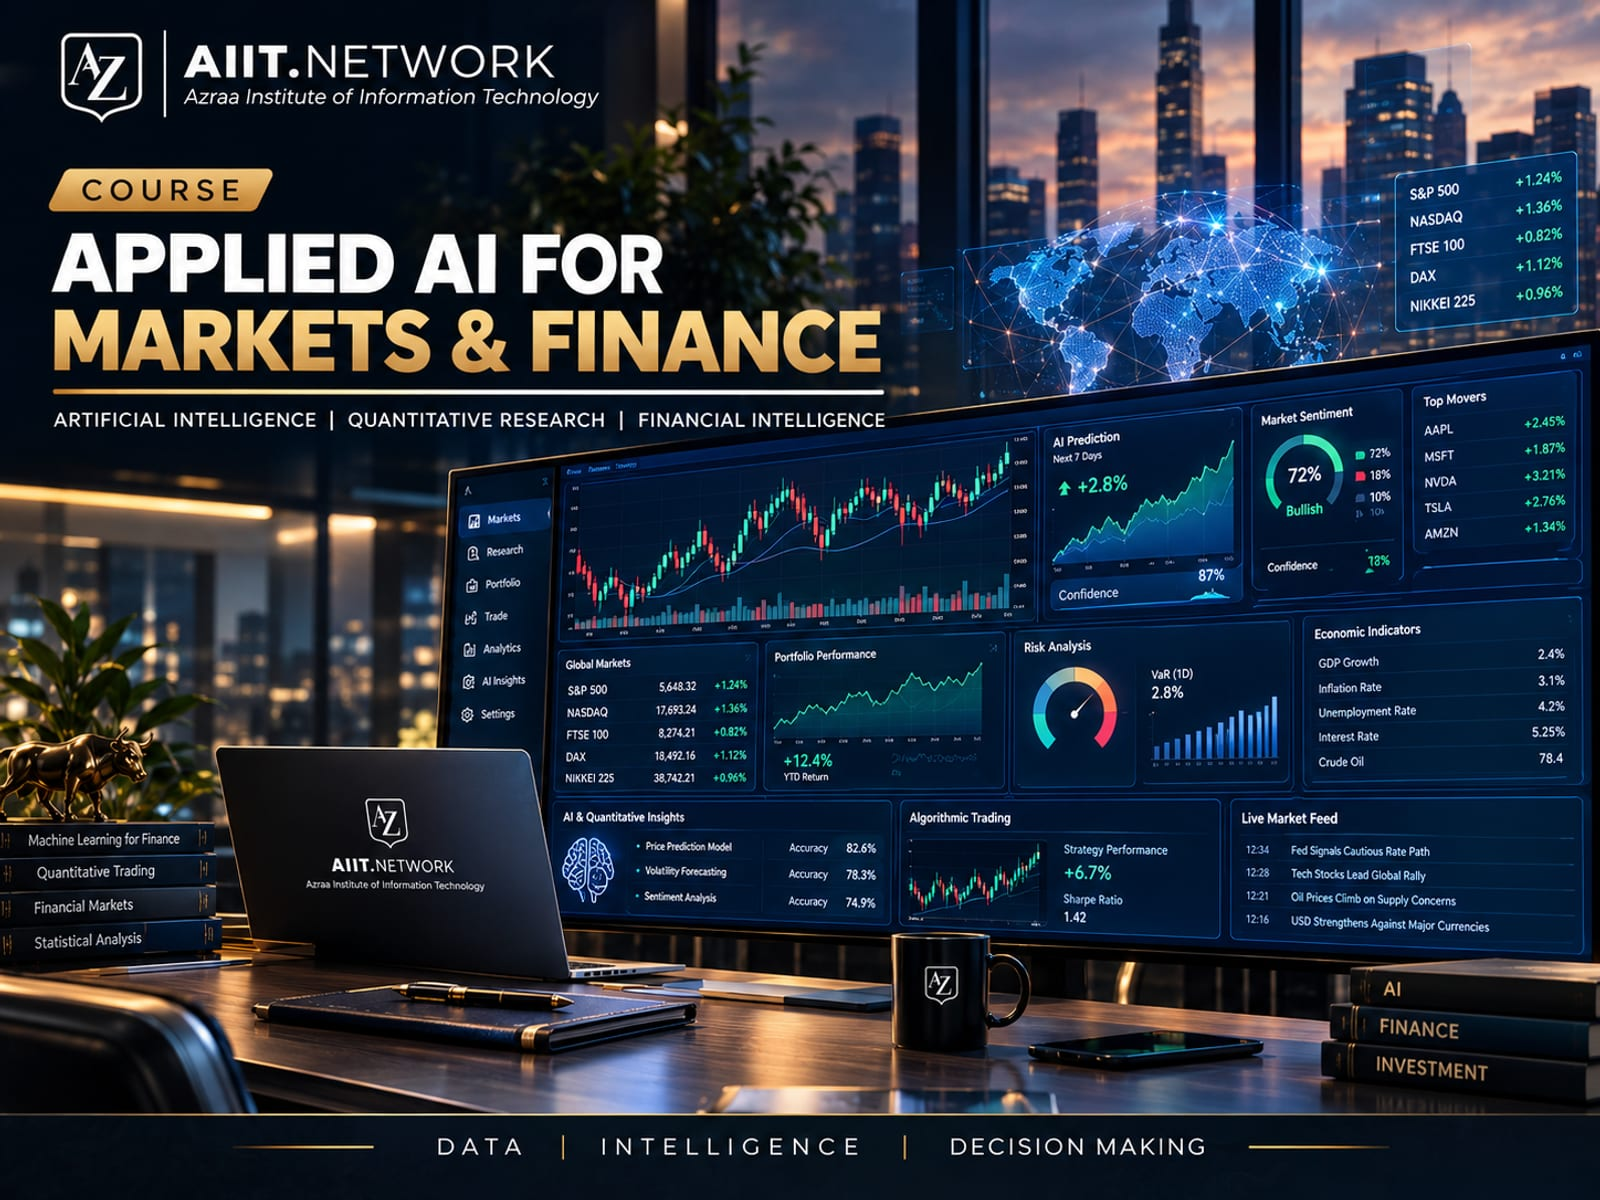
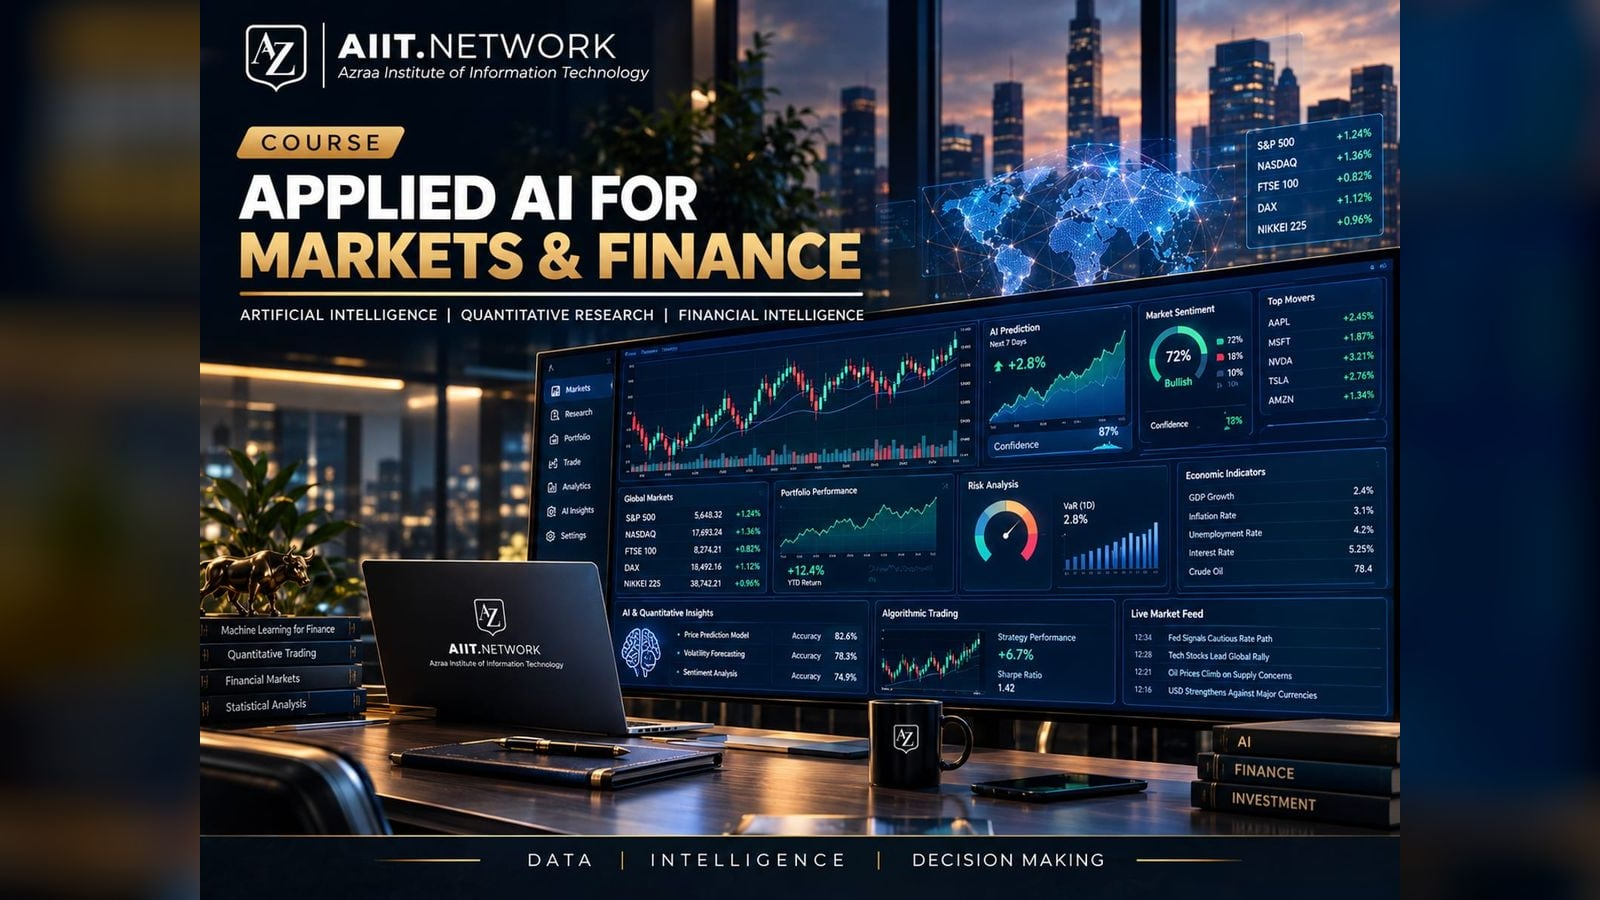
fix: match MBA cover images to the site's 16:9 convention, clean up remaining course-copy double-hyphens
The 3 MBA covers were shipped at their native 4:3 instead of the 16:9 every other course image uses, so they rendered edge-to-edge in the card grid instead of the consistent letterboxed look. Rebuilt at 1600x900 with a blurred pillarbox of the same artwork (no cropping, nothing lost) to match. Also found, via a broader sweep that this time covers seed data and migrations (not just app source), 6 courses whose summary/description still had a literal double-hyphen -- fixed in seed-data/courses.ts plus a follow-up migration for the rows already in production.

diff --git a/apps/api/prisma/seed-data/courses.ts b/apps/api/prisma/seed-data/courses.ts
@@ -140,7 +140,7 @@ export const COURSES: CourseSeed[] = [
       { name: 'AI evaluation tools', type: 'tool', icon: 'search', tier: 'optional' },
     ],
     summary:
-      'Design, build and deploy autonomous AI agents that plan, use tools and work together -- going beyond prompting to real agentic systems.',
+      'Design, build and deploy autonomous AI agents that plan, use tools and work together, going beyond prompting to real agentic systems.',
     description:
       'This course moves beyond single-turn prompting into agentic AI: systems that reason, call tools, retrieve information and act autonomously toward a goal. Participants build real agents using Claude, Gemini and OpenAI APIs alongside LangChain, working hands-on with tool calling, function calling, Retrieval-Augmented Generation, agent memory and multi-agent coordination, and explore emerging ecosystems such as the Model Context Protocol (MCP).',
     priceUsdCents: 18000,
@@ -553,7 +553,7 @@ export const COURSES: CourseSeed[] = [
       { name: 'Meta Ads / Meta Business Suite', type: 'platform', icon: 'megaphone', tier: 'optional' },
     ],
     summary:
-      'A practical introduction to digital marketing -- SEO, paid advertising, social media, content and email marketing, and the analytics behind them.',
+      'A practical introduction to digital marketing: SEO, paid advertising, social media, content and email marketing, and the analytics behind them.',
     description:
       'This course introduces the core disciplines of digital marketing: search engine optimisation, paid advertising, social media, content and email marketing, and how to measure what is actually working. Participants learn to plan, run and analyse digital marketing activity using real platforms and a shared analytics vocabulary used across the industry.',
     priceUsdCents: 12000,
@@ -614,7 +614,7 @@ export const COURSES: CourseSeed[] = [
       { name: 'Scrum', type: 'concept', icon: 'briefcase', tier: 'optional' },
     ],
     summary:
-      'A technology-focused introduction to IT business management -- governance, service management, project delivery and digital transformation for IT-driven organisations.',
+      'A technology-focused introduction to IT business management: governance, service management, project delivery and digital transformation for IT-driven organisations.',
     description:
       'This course introduces IT business management as it is practised inside technology-driven organisations: governance, IT service management, project and risk management, and the strategic thinking behind digital transformation. It is built for people working at the intersection of technology and business, not a general management or MBA-style programme.',
     priceUsdCents: 12000,
@@ -725,7 +725,7 @@ export const COURSES: CourseSeed[] = [
       { name: 'AI Dashboards', type: 'tool', icon: 'chart', tier: 'optional' },
     ],
     summary:
-      'A 4-week, tool-based introduction to using AI for market research and financial analysis -- for first-year MBA students.',
+      'A 4-week, tool-based introduction to using AI for market research and financial analysis, for first-year MBA students.',
     description:
       'Part of the AIIT Bangalore MBA Certification Program. Participants survey today\'s leading AI tools (ChatGPT, Claude, Copilot and finance-specific AI platforms), then apply them to real market-research and financial-analysis workflows: sentiment analysis, competitor research, trend forecasting, budgeting and risk scoring. The course closes with a capstone AI-powered market/finance mini-workflow and a look at the limitations and responsible use of financial AI.',
     priceUsdCents: 15000,
@@ -769,7 +769,7 @@ export const COURSES: CourseSeed[] = [
       { name: 'CRM Administration', type: 'concept', icon: 'database', tier: 'core' },
     ],
     summary:
-      'A 4-week, hands-on Zoho CRM certification track -- setup, lead management, pipeline analytics and automation -- for first-year MBA students.',
+      'A 4-week, hands-on Zoho CRM certification track covering setup, lead management, pipeline analytics and automation, for first-year MBA students.',
     description:
       'Part of the AIIT Bangalore MBA Certification Program. Participants configure a sandbox Zoho CRM organisation, manage leads and contacts with deduplication and workflow automation, build a live sales pipeline dashboard, then move into advanced automation with Zia AI features and Blueprint process automation. The course closes with a Zoho CRM certification mock exam and review. Zoho CRM certification eligibility is included; the official Zoho certification exam itself carries an additional fee charged directly by Zoho.',
     priceUsdCents: 15000,
@@ -814,9 +814,9 @@ export const COURSES: CourseSeed[] = [
       { name: 'Lead Scoring', type: 'concept', icon: 'chart', tier: 'core' },
     ],
     summary:
-      'A 4-week, tool-based lead generation and growth marketing track -- funnels, channels, outbound and CRM integration -- for first-year MBA students.',
+      'A 4-week, tool-based lead generation and growth marketing track covering funnels, channels, outbound and CRM integration, for first-year MBA students.',
     description:
-      'Part of the AIIT Bangalore MBA Certification Program. Participants build an ideal-customer-profile and buyer-persona worksheet, plan a multi-channel lead generation strategy across SEO, content, LinkedIn and paid ads, then run outbound campaigns -- cold email sequencing and LinkedIn outreach -- synced into Zoho CRM. The course closes with landing-page optimisation, A/B testing and lead scoring, and a capstone go-to-market plan.',
+      'Part of the AIIT Bangalore MBA Certification Program. Participants build an ideal-customer-profile and buyer-persona worksheet, plan a multi-channel lead generation strategy across SEO, content, LinkedIn and paid ads, then run outbound campaigns (cold email sequencing and LinkedIn outreach) synced into Zoho CRM. The course closes with landing-page optimisation, A/B testing and lead scoring, and a capstone go-to-market plan.',
     priceUsdCents: 15000,
     priceWasUsdCents: null,
     pricing: 'paid',
